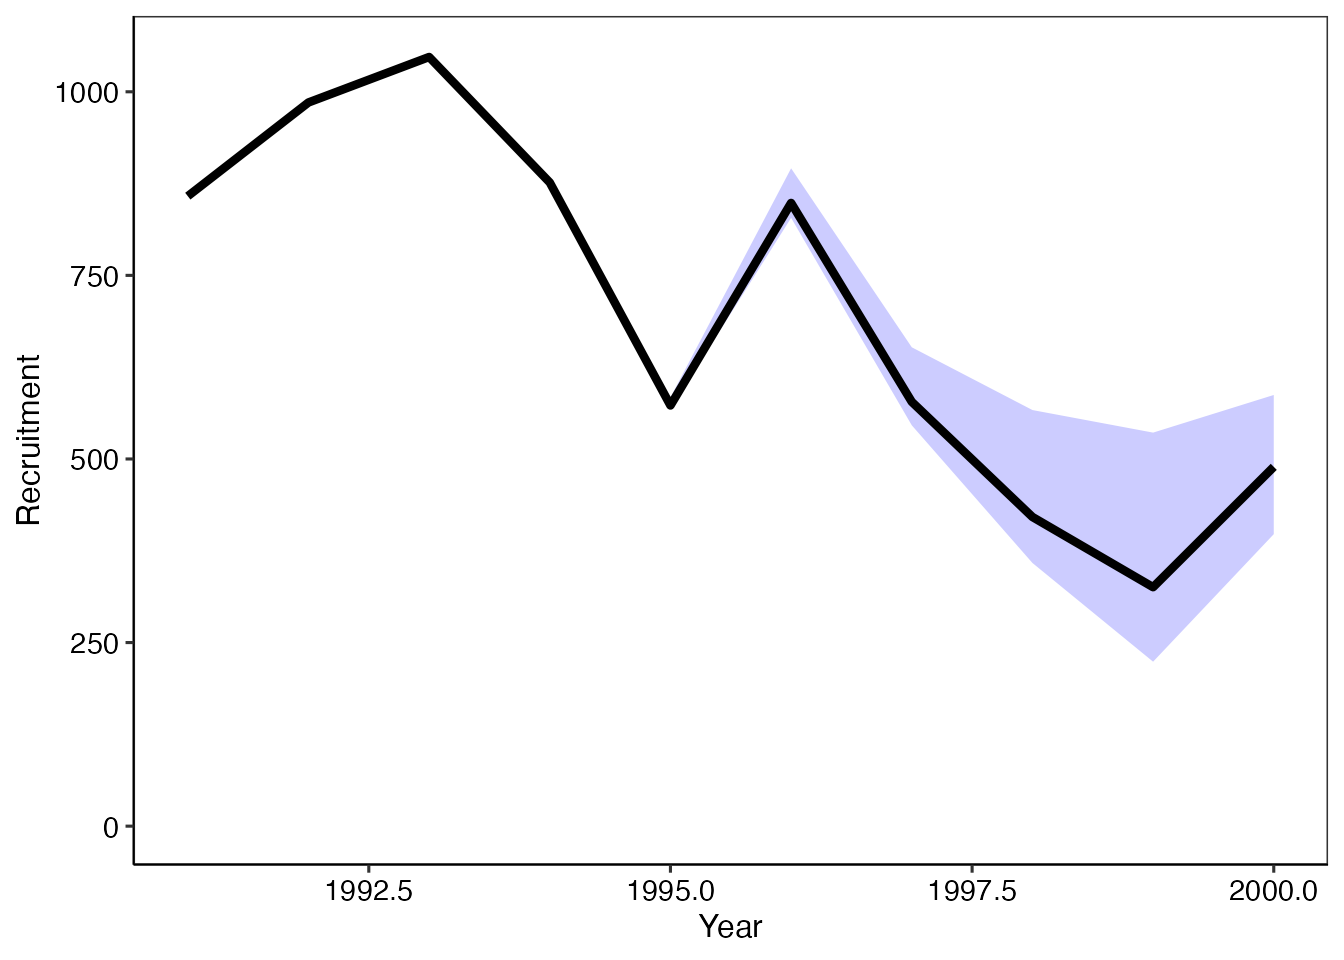
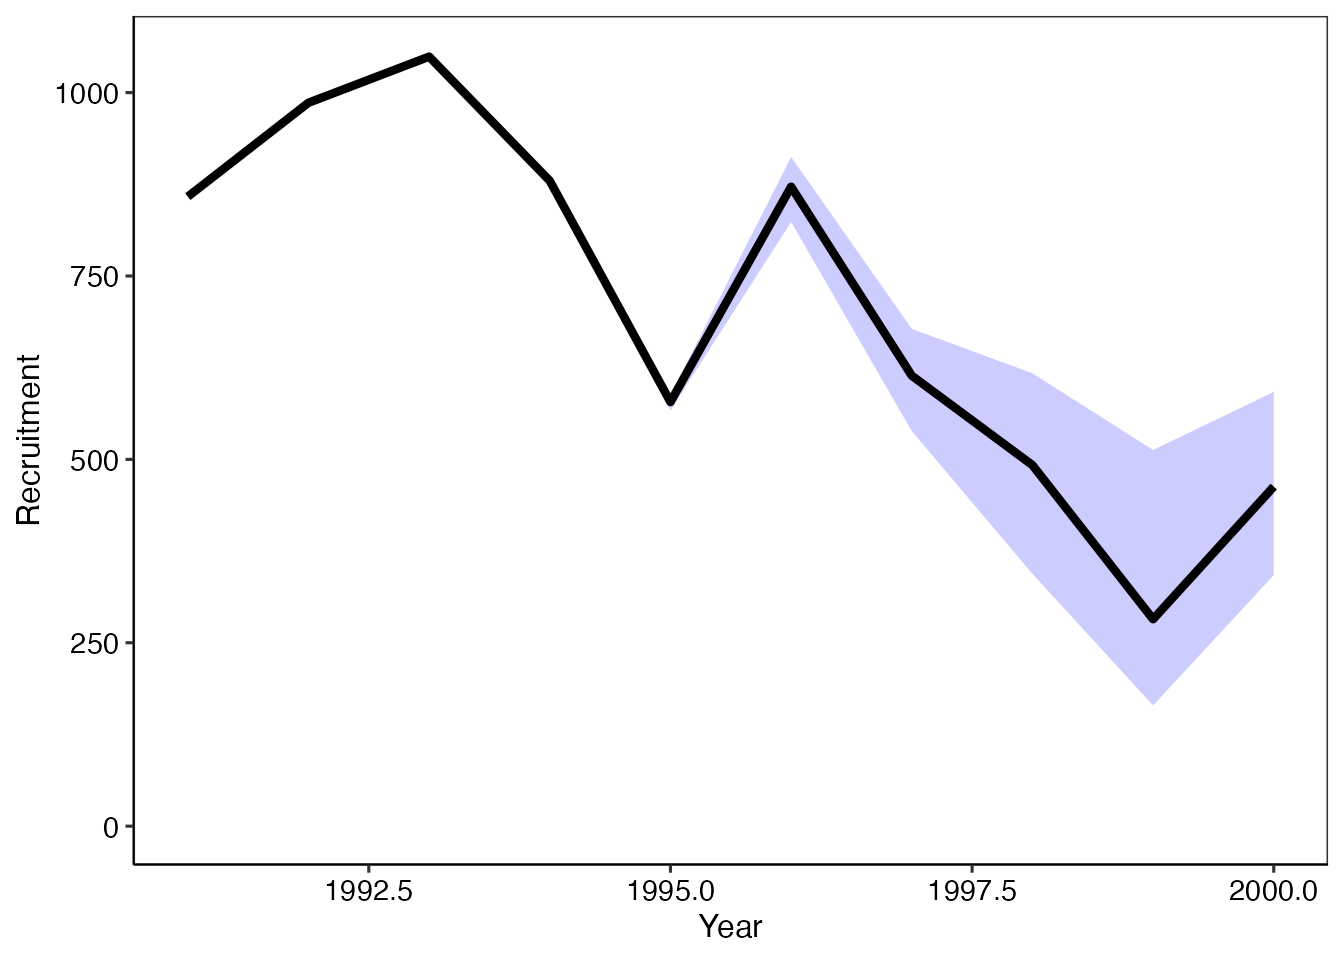
Built site for frasyr: 2.2.0.0@7dd674a

diff --git a/articles/Diagnostics-for-VPA.html b/articles/Diagnostics-for-VPA.html
@@ -77,7 +77,7 @@
       <h1 data-toc-skip>VPAモデル診断スクリプト</h1>
                         <h4 data-toc-skip class="author">Kohei Hamabe &amp; Momoko Ichinokawa</h4>
             
-            <h4 data-toc-skip class="date">2021-06-08</h4>
+            <h4 data-toc-skip class="date">2021-06-09</h4>
       
       
       <div class="hidden name"><code>Diagnostics-for-VPA.Rmd</code></div>
@@ -435,7 +435,7 @@
 <p>を指定します。コマンドは以下の通りです。</p>
 <div class="sourceCode" id="cb25"><pre class="downlit sourceCode r">
 <code class="sourceCode R"><span class="va">res_vpa_jitter</span> <span class="op">&lt;-</span> <span class="fu"><a href="../reference/do_estcheck_vpa.html">do_estcheck_vpa</a></span><span class="op">(</span><span class="va">res_vpa_estb</span>, n_ite<span class="op">=</span><span class="fl">10</span><span class="op">)</span></code></pre></div>
-<pre><code>Maximum likelihood in jitter analysis is:  22.5652 
+<pre><code>Maximum likelihood in jitter analysis is:  23.60018 
 Likelihood with estimated parameters is:  23.60018 </code></pre>
 <p>最初に引数で与えたVPA結果について、</p>
 <ul>
@@ -570,7 +570,7 @@ Likelihood with estimated parameters is:  23.60018 </code></pre>
 <span class="kw">for</span><span class="op">(</span><span class="va">i</span> <span class="kw">in</span> <span class="fl">1</span><span class="op">:</span><span class="fl">10</span><span class="op">)</span> <span class="va">res_tmp</span><span class="op">[</span><span class="va">i</span><span class="op">]</span> <span class="op">&lt;-</span> <span class="fu"><a href="https://rdrr.io/r/base/numeric.html" class="external-link">as.numeric</a></span><span class="op">(</span><span class="va">res_vpa_bootstrap</span><span class="op">$</span><span class="va">res_boot</span><span class="op">[[</span><span class="va">i</span><span class="op">]</span><span class="op">]</span><span class="op">$</span><span class="va">Fc.at.age</span><span class="op">[</span><span class="fl">4</span><span class="op">]</span><span class="op">)</span>
 <span class="fu"><a href="https://rdrr.io/r/stats/quantile.html" class="external-link">quantile</a></span><span class="op">(</span><span class="va">res_tmp</span>, probs <span class="op">=</span> <span class="fu"><a href="https://rdrr.io/r/base/c.html" class="external-link">c</a></span><span class="op">(</span><span class="fl">0.025</span>,<span class="fl">0.5</span>,<span class="fl">0.975</span><span class="op">)</span><span class="op">)</span></code></pre></div>
 <pre><code>     2.5%       50%     97.5% 
-0.5056096 0.8282846 1.3425959 </code></pre>
+0.4533659 0.6162257 6.5579386 </code></pre>
 <p>この他、各パラメータの相関関係について、ブートストラップ標本を基にプロットが得られます。</p>
 <div class="sourceCode" id="cb41"><pre class="downlit sourceCode r">
 <code class="sourceCode R"><span class="va">res_vpa_bootstrap</span><span class="op">$</span><span class="va">plot_cor</span></code></pre></div>

diff --git a/reference/summary_kobe_table.html b/reference/summary_kobe_table.html
@@ -6,7 +6,7 @@
 <meta http-equiv="X-UA-Compatible" content="IE=edge">
 <meta name="viewport" content="width=device-width, initial-scale=1.0">
 
-<title>re-calculate projection with different arguments — redo_future • frasyr</title>
+<title>kobe.tableをさらにsummaryする — summary_kobe_table • frasyr</title>
 
 
 <!-- jquery -->
@@ -39,8 +39,8 @@
 
 
 
-<meta property="og:title" content="re-calculate projection with different arguments — redo_future" />
-<meta property="og:description" content="re-calculate projection with different arguments" />
+<meta property="og:title" content="kobe.tableをさらにsummaryする — summary_kobe_table" />
+<meta property="og:description" content="kobe.tableをさらにsummaryする" />
 
 
 
@@ -123,33 +123,17 @@
 <div class="row">
   <div class="col-md-9 contents">
     <div class="page-header">
-    <h1>re-calculate projection with different arguments</h1>
+    <h1>kobe.tableをさらにsummaryする</h1>
     
-    <div class="hidden name"><code>redo_future.Rd</code></div>
+    <div class="hidden name"><code>summary_kobe_table.Rd</code></div>
     </div>
 
     <div class="ref-description">
-    <p>re-calculate projection with different arguments</p>
+    <p>kobe.tableをさらにsummaryする</p>
     </div>
 
-    <div class="ref-usage sourceCode"><pre class='sourceCode r'><code><span class='fu'>redo_future</span><span class='op'>(</span>
-  <span class='va'>data_future</span>,
-  <span class='va'>input_data_list</span>,
-  SR_sd <span class='op'>=</span> <span class='cn'>NULL</span>,
-  SR_b <span class='op'>=</span> <span class='cn'>NULL</span>,
-  only_data <span class='op'>=</span> <span class='cn'>FALSE</span>,
-  is_regime <span class='op'>=</span> <span class='op'>(</span><span class='fu'><a href='https://rdrr.io/r/base/class.html'>class</a></span><span class='op'>(</span><span class='va'>data_future</span><span class='op'>$</span><span class='va'>input</span><span class='op'>$</span><span class='va'>res_SR</span><span class='op'>)</span> <span class='op'>==</span> <span class='st'>"fit.SRregime"</span><span class='op'>)</span>,
-  <span class='va'>...</span>
-<span class='op'>)</span></code></pre></div>
+    <div class="ref-usage sourceCode"><pre class='sourceCode r'><code><span class='fu'>summary_kobe_table</span><span class='op'>(</span><span class='va'>kobe_data</span><span class='op'>)</span></code></pre></div>
 
-    <h2 class="hasAnchor" id="arguments"><a class="anchor" href="#arguments"></a>Arguments</h2>
-    <table class="ref-arguments">
-    <colgroup><col class="name" /><col class="desc" /></colgroup>
-    <tr>
-      <th>data_future</th>
-      <td><p>make_future_dataの返り値。これ全体でなくて、$inputのみでもOK</p></td>
-    </tr>
-    </table>
 
 
   </div>

diff --git a/reference/SRplot_gg.html b/reference/SRplot_gg.html
@@ -132,19 +132,7 @@
     <p>再生産関係をプロットする関数</p>
     </div>
 
-    <div class="ref-usage sourceCode"><pre class='sourceCode r'><code><span class='fu'>SRplot_gg</span><span class='op'>(</span>
-  <span class='va'>SR_result</span>,
-  refs <span class='op'>=</span> <span class='cn'>NULL</span>,
-  xscale <span class='op'>=</span> <span class='fl'>1000</span>,
-  xlabel <span class='op'>=</span> <span class='st'>"千トン"</span>,
-  yscale <span class='op'>=</span> <span class='fl'>1</span>,
-  ylabel <span class='op'>=</span> <span class='st'>"尾"</span>,
-  labeling.year <span class='op'>=</span> <span class='cn'>NULL</span>,
-  add.info <span class='op'>=</span> <span class='cn'>TRUE</span>,
-  recruit_intercept <span class='op'>=</span> <span class='fl'>0</span>,
-  plot_CI <span class='op'>=</span> <span class='cn'>FALSE</span>,
-  CI <span class='op'>=</span> <span class='fl'>0.9</span>
-<span class='op'>)</span></code></pre></div>
+    <div class="ref-usage sourceCode"><pre class='sourceCode r'><code><span class='fu'>SRplot_gg</span><span class='op'>(</span><span class='va'>...</span><span class='op'>)</span></code></pre></div>
 
     <h2 class="hasAnchor" id="arguments"><a class="anchor" href="#arguments"></a>Arguments</h2>
     <table class="ref-arguments">
@@ -174,6 +162,7 @@
 <span class='r-in'>  <span class='va'>res_SR2</span> <span class='op'>&lt;-</span> <span class='fu'><a href='fit.SR.html'>fit.SR</a></span><span class='op'>(</span>SRdata<span class='op'>=</span><span class='va'>SRdata2</span>, method<span class='op'>=</span><span class='st'>"L1"</span>, AR<span class='op'>=</span><span class='fl'>0</span><span class='op'>)</span></span>
 <span class='r-in'>  <span class='fu'>plot_SR</span><span class='op'>(</span><span class='va'>res_SR2</span><span class='op'>)</span></span>
 <span class='r-in'><span class='op'>}</span></span>
+<span class='r-in'></span>
 </code></pre></div>
   </div>
   <div class="col-md-3 hidden-xs hidden-sm" id="pkgdown-sidebar">

diff --git a/reference/beta.simulation.html b/reference/beta.simulation.html
@@ -138,6 +138,9 @@
   year.lag <span class='op'>=</span> <span class='fl'>0</span>,
   type <span class='op'>=</span> <span class='st'>"old"</span>,
   year_beta_change <span class='op'>=</span> <span class='cn'>NULL</span>,
+  datainput_setting_extra <span class='op'>=</span> <span class='cn'>NULL</span>,
+  datainput_setting_original <span class='op'>=</span> <span class='cn'>NULL</span>,
+  label_name <span class='op'>=</span> <span class='cn'>NULL</span>,
   output_type <span class='op'>=</span> <span class='st'>"tidy"</span>,
   ncore <span class='op'>=</span> <span class='fl'>1</span>
 <span class='op'>)</span></code></pre></div>
@@ -146,8 +149,24 @@
     <table class="ref-arguments">
     <colgroup><col class="name" /><col class="desc" /></colgroup>
     <tr>
+      <th>finput</th>
+      <td><p>future_vpaの返り値の$input</p></td>
+    </tr>
+    <tr>
       <th>year_beta_change</th>
       <td><p>betaを変更する年の範囲。NULLの場合には全部の年を変える。</p></td>
+    </tr>
+    <tr>
+      <th>datainput_setting_extra</th>
+      <td><p>betaに加えて変えたい追加の設定</p></td>
+    </tr>
+    <tr>
+      <th>datainput_setting_original</th>
+      <td><p>make_future_dataに与えて引数を作り直す場合の make_future_dataの返り値</p></td>
+    </tr>
+    <tr>
+      <th>label_name</th>
+      <td><p>HCR_nameのラベルの名前. NULLの場合、beta_vectorが使われる</p></td>
     </tr>
     </table>
 

diff --git a/reference/plot_residual_vpa.html b/reference/plot_residual_vpa.html
@@ -136,7 +136,10 @@
   <span class='va'>res</span>,
   index_name <span class='op'>=</span> <span class='cn'>NULL</span>,
   plot_smooth <span class='op'>=</span> <span class='cn'>TRUE</span>,
-  plot_year <span class='op'>=</span> <span class='cn'>FALSE</span>
+  plot_year <span class='op'>=</span> <span class='cn'>FALSE</span>,
+  plot_scale <span class='op'>=</span> <span class='cn'>FALSE</span>,
+  resid_CI <span class='op'>=</span> <span class='cn'>TRUE</span>,
+  plotAR <span class='op'>=</span> <span class='cn'>FALSE</span>
 <span class='op'>)</span></code></pre></div>
 
     <h2 class="hasAnchor" id="arguments"><a class="anchor" href="#arguments"></a>Arguments</h2>

diff --git a/reference/ref.F.html b/reference/ref.F.html
@@ -141,6 +141,7 @@
   waa.catch <span class='op'>=</span> <span class='cn'>NULL</span>,
   M.year <span class='op'>=</span> <span class='cn'>NULL</span>,
   waa.year <span class='op'>=</span> <span class='cn'>NULL</span>,
+  waa.catch.year <span class='op'>=</span> <span class='cn'>NULL</span>,
   maa.year <span class='op'>=</span> <span class='cn'>NULL</span>,
   rps.year <span class='op'>=</span> <span class='cn'>NULL</span>,
   rps.vector <span class='op'>=</span> <span class='cn'>NULL</span>,

diff --git a/reference/index.html b/reference/index.html
@@ -821,6 +821,12 @@ Pull data frame from list</p></td>
       </tr><tr>
         
         <td>
+          <p><code><a href="summary_kobe_table.html">summary_kobe_table()</a></code> </p>
+        </td>
+        <td><p>kobe.tableをさらにsummaryする</p></td>
+      </tr><tr>
+        
+        <td>
           <p><code><a href="table1.html">table1()</a></code> </p>
         </td>
         <td><p>Make table of latest SB and F</p></td>

diff --git a/articles/fittingSR.html b/articles/fittingSR.html
@@ -77,7 +77,7 @@
       <h1 data-toc-skip>fitSR関数を使った再生産関係の推定</h1>
                         <h4 data-toc-skip class="author">Shota Nisijima &amp; Shin Fukui</h4>
             
-            <h4 data-toc-skip class="date">2021-06-08</h4>
+            <h4 data-toc-skip class="date">2021-06-09</h4>
       
       
       <div class="hidden name"><code>fittingSR.Rmd</code></div>

diff --git a/articles/vpa.html b/articles/vpa.html
@@ -77,7 +77,7 @@
       <h1 data-toc-skip>VPA関数を使った資源量推定</h1>
                         <h4 data-toc-skip class="author">市野川桃子</h4>
             
-            <h4 data-toc-skip class="date">2021-06-08</h4>
+            <h4 data-toc-skip class="date">2021-06-09</h4>
       
       
       <div class="hidden name"><code>vpa.Rmd</code></div>
